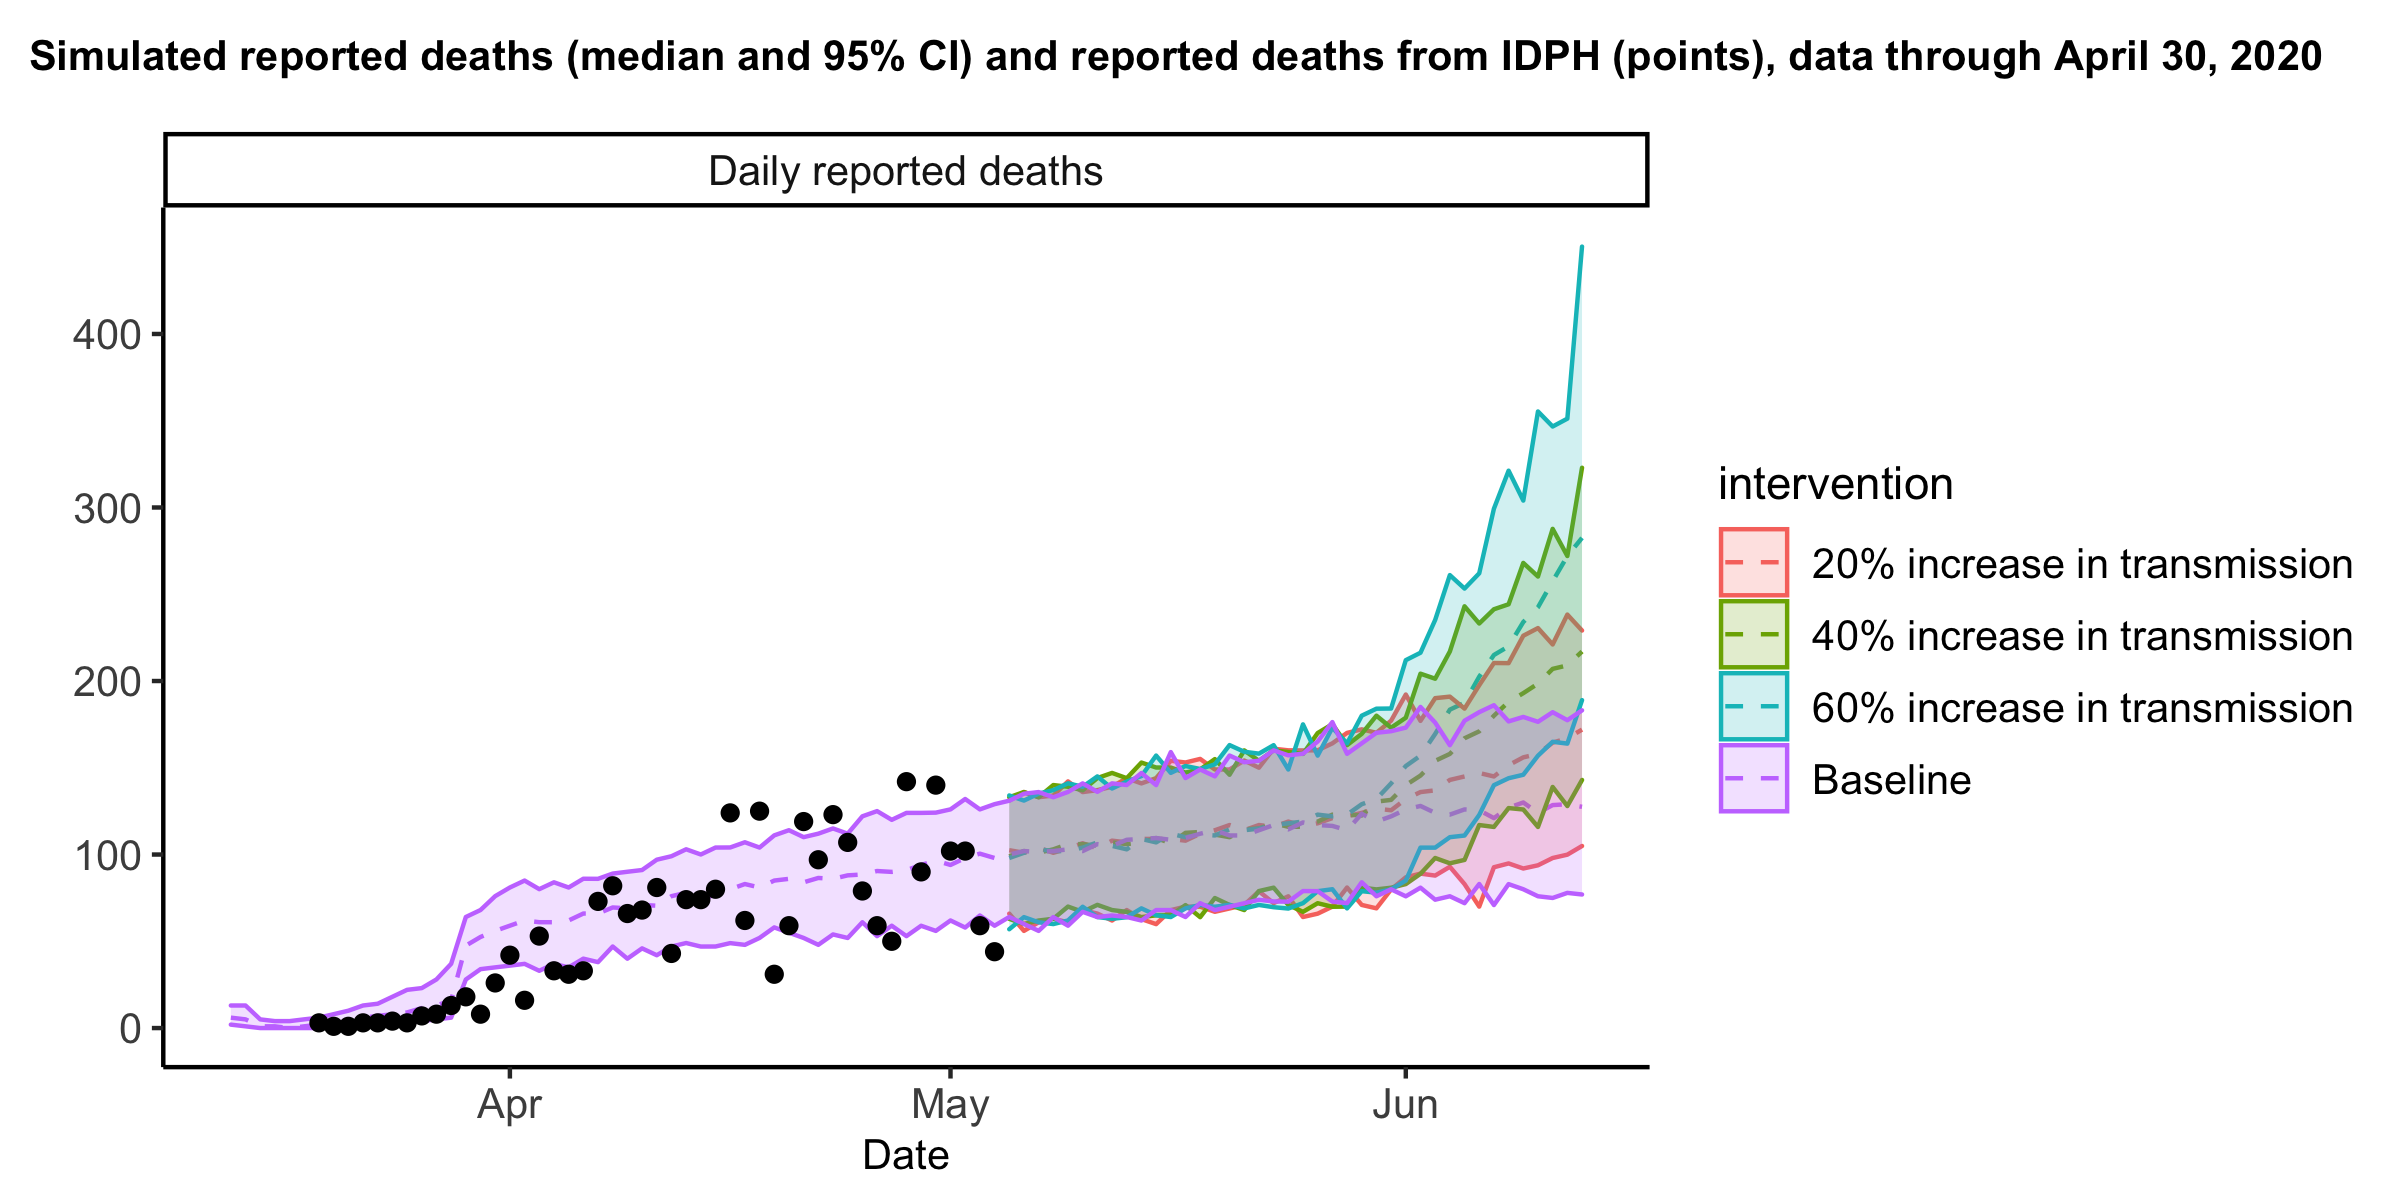
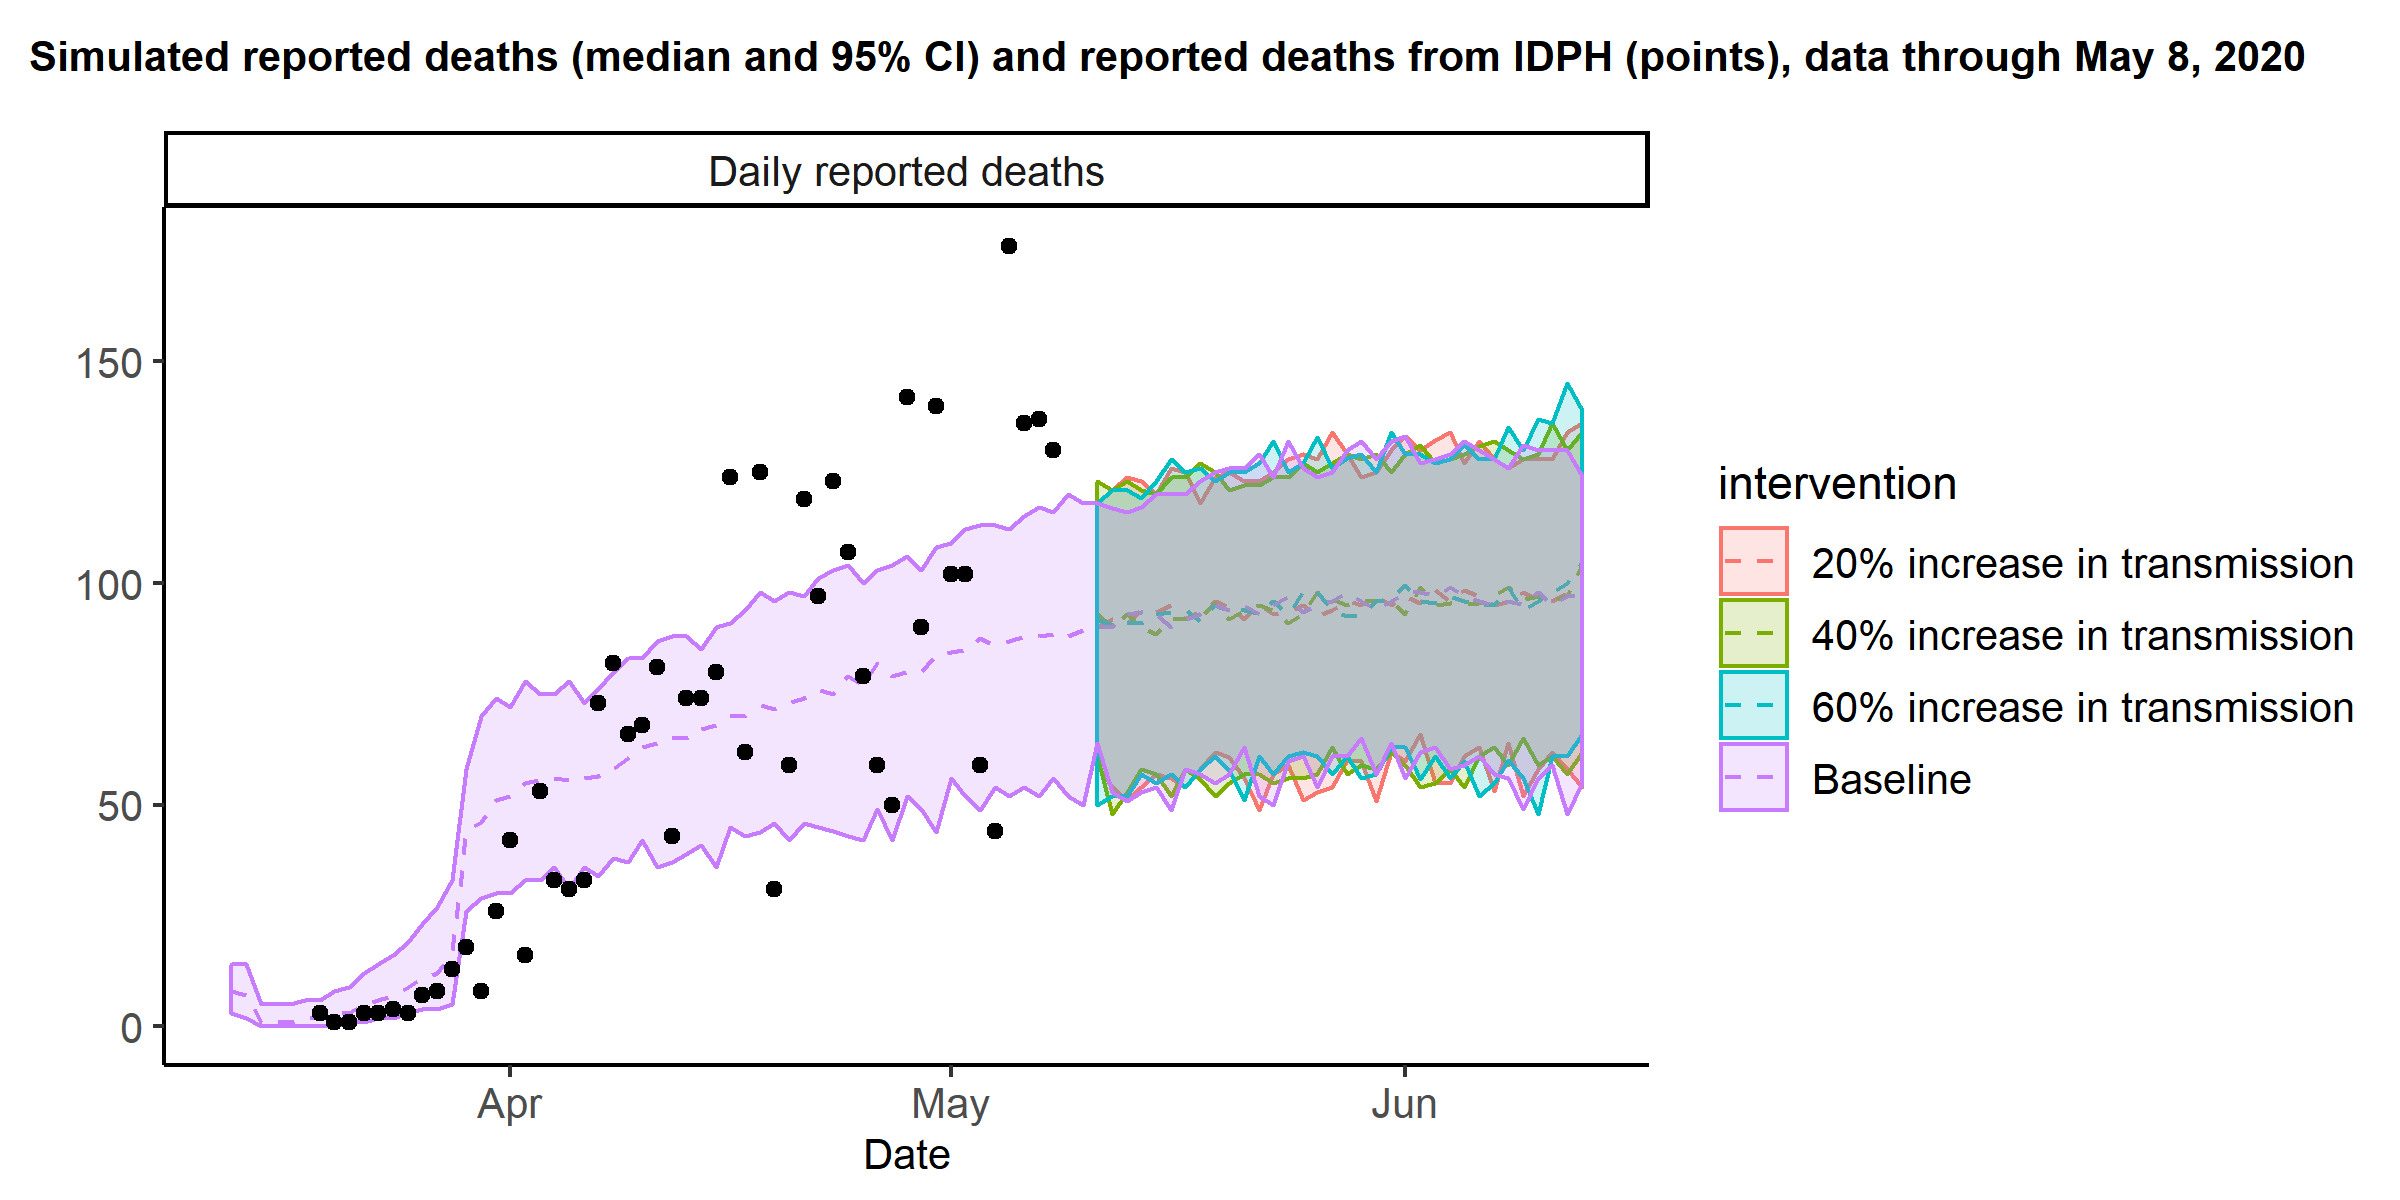
New projections

diff --git a/Forecasting/README.md b/Forecasting/README.md
@@ -27,3 +27,11 @@ Figure 2 gives the projected daily reported hosptialized and non-hospitalized de
 * `inference_to_simulation.R`: R script to run and store simulation output. Called within `simulate_projections.Rmd`
 * `simulation_statewide.R`: R script with functions for simulation. Called within `inference_to_simulation.R`
 * `plot_intervention_comparisons.R`: R script to plot simulation output. Called within `simulate_projections.Rmd`
+
+## Changelog
+###2020-05-11
+* Fitted with data through May 8, 2020. 
+* Changed date of transmission increase from May 15 to May 29.
+* Added non-hospitalized deaths to process model instead of calculating post-hoc. 
+* Switched from statewide to region-specific, symmetric contact matrices.
+
